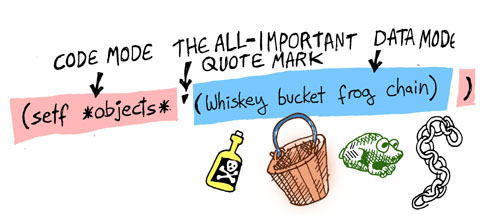
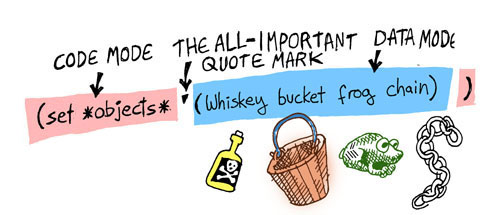
Added the next chapter, along with other tweaks.

Changed region(s): [[0.0, 0.4465, 0.15, 0.6698], [0.12, 0.4186, 0.15, 0.4465]]

diff --git a/book/defdata.md b/book/defdata.md
@@ -1,0 +1,157 @@
+# Defining the Data for our Game World
+
+In order to learn some more about forms, let's create a some forms that create the data for our game world. First of all, our game is going to have some objects in it that the player can pick up and use -- let's define those objects:
+
+```lisp
+(set *objects* '(whiskey-bottle bucket frog chain))
+```
+```lisp
+(whiskey-bottle bucket frog chain)
+```
+
+Ok, now let's dissect this line an see what it means: Since a Lisp compiler always starts reading things in *Code Mode* and expects a form, the first symbol, ``set``, must be a command. In this case, the command sets a variable to a value: The variable is ``*objects*`` (Lispers like to put stars around the names for global variables as a convention; these are sometimes referred to as "ear muffs"). The value we are setting it to is a list of the four objects. Now, since the list is data (i.e. we don't want the compiler to try and call a function called ``whiskey-bottle``) we need to "flip" the compiler into ``Data Mode`` when reading the list. The single quote in front of the list is the command that tells the compiler to flip:
+
+![](images/objects.jpg)
+
+Now that we've defined some objects in our world, let's ramp it up a step and define a map of the actual world itself. Here is a picture of what our world looks like:
+
+![](images/world.jpg)
+
+In this simple game, there will only be three different locations: A house with a living room and an attic, along with a garden. We're going to describe each of these, as well as provide metadata associated with them. We'll do that with something called a "record", a simple data structure in Erlang and LFE that lets us associate keys and values. Let's create a record for our places:
+
+```lisp
+> (defrecord place
+    description
+    exits)
+```
+```lisp
+()
+```
+
+Great! Now we can define our places ... almost. What's the "exit" business? Well, if we're going to move about from place to place, we need to know what direction to go in, the object that lets us pass from one location to the next, and the final destination. Let's create another record for this data:
+
+```lisp
+> (defrecord exit
+    direction
+    object
+    destination)
+```
+```lisp
+()
+```
+
+Now we're ready to create our places!
+
+```lisp
+> (set living-room
+    (make-place
+      description (++ "You are in the living-room of a wizards house. "
+                      "There is a wizard snoring loudly on the couch.")
+      exits (list
+              (make-exit
+                direction 'west
+                object 'door
+                destination 'garden)
+              (make-exit
+                direction 'upstairs
+                object 'stairway
+                destination 'attic))))
+```
+```lisp
+#(place
+  "You are in the living-room of a wizards house. There is a wizard snoring loudly on the couch."
+  (#(exit west door garden) #(exit upstairs stairway attic)))
+```
+
+Two more to go!
+
+```lisp
+> (set garden
+    (make-place
+      description (++ "You are in a beautiful garden. "
+                      "There is a well in front of you.")
+      exits (list
+              (make-exit
+                direction 'east
+                object 'door
+                destination 'living-room))))
+```
+```lisp
+  "You are in a beautiful garden. There is a well in front of you."
+  (#(exit east door living-room)))
+```
+```lisp
+> (set attic
+    (make-place
+      description (++ "You are in the attic of the wizards house. "
+                      "There is a giant welding torch in the corner.")
+      exits (list
+              (make-exit
+                direction 'downstairs
+                object 'stairway
+                destination 'living-room))))
+```
+```lisp
+#(place
+  "You are in the attic of the wizards house. There is a giant welding torch in the corner."
+  (#(exit downstairs stairway living-room)))
+```
+
+Now we can combine these to make our game map! Let's define a new variable called ``*map*`` that combines these together to give us a picture of our mini world:
+
+```lisp
+> (set *map* `(#(living-room ,living-room)
+               #(gargen ,garden)
+               #(attic ,attic)))
+```
+
+ Lists such as this are, not surprisingly, called "property lists" in LFE and Erlang. They can also be used as dictionaries. An property list is simply a list of *tuples* where the first item in each *tuple* is a "key" symbol that is associated with "values", a bunch of other data. Our three keys are the *atoms* ``living-room``, ``garden``, and ``attic``.
+
+After we set that last variable, we will see the following output:
+
+```lisp
+(#(living-room
+   #(place
+     "You are in the living-room of a wizards house. There is a wizard snoring loudly on the couch."
+     (#(exit west door garden) #(exit upstairs stairway attic))))
+ #(gargen
+   #(place
+     "You are in a beautiful garden. There is a well in front of you."
+     (#(exit east door living-room))))
+ #(attic
+   #(place
+     "You are in the attic of the wizards house. There is a giant welding torch in the corner."
+     (#(exit downstairs stairway living-room)))))
+```
+
+This map contains everything important that we'd like to know about our three locations: a unique name for the location (i.e. "house", "garden", and "attic") a short description of what we can see from there, plus the where and how of each path into/out of that place. Notice how information-rich this one variable is and how it describes all we need to know but not a thing more. Lispers love to create small, concise pieces of code that leave out any fat and are easy to understand just by looking at them.
+
+Now that we have a map and a bunch of objects, it makes sense to create another variable that says where each of these object is on the map:
+
+```lisp
+> (set *object-locations* '(#(whiskey-bottle living-room)
+                            #(bucket living-room)
+                            #(chain garden)
+                            #(frog garden)))
+```
+```lisp
+(#(whiskey-bottle living-room)
+ #(bucket living-room)
+ #(chain garden)
+ #(frog garden))
+```
+
+Here we have associated each object with a location, and we see the property list rear its head again!
+
+Now that we have defined our world and the objects in the world, the only thing left to do is describe the location of the player of the game:
+
+```lisp
+> (set *location* 'living-room)
+```
+```lisp
+living-room
+```
+
+Now let's begin making some game commands!
+
+![](images/drink.jpg)

diff --git a/README.md b/README.md
@@ -65,7 +65,12 @@ LFE syntax looks like this:
     (factors n (+ k 1) acc)))
 ```
 
-In the first chapter, you will be setting up LFE so that you can follow along
+You don't need to worry about that code or what it means: it's just there to
+give you a "feel" of the code, a visual sense of how the two languages are
+the same underneath, but superficially different (we'll be discussing syntax
+very shortly!)
+
+If you don't have LFE installed on your computer, no need to worry -- in the first chapter, you will be setting up LFE so that you can follow along
 in this book.
 
 

diff --git a/book/setup.md b/book/setup.md
@@ -47,7 +47,7 @@ We'll use it more soon, but for now you can try out a little addition:
 ```lisp
 > (+ 2 2)
 ```
-```
+```lisp
 4
 ```
 
